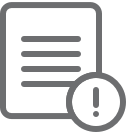
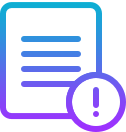
1. 공휴일, 일요일 구분 2. 데이터 없을때 아이콘 이미지 변경

diff --git a/Project01/Project01/ViewControllers/Calendar/CalendarDayCell.swift b/Project01/Project01/ViewControllers/Calendar/CalendarDayCell.swift
@@ -9,7 +9,8 @@
 import UIKit
 
 class CalendarDayCell: UICollectionViewCell {
-    
+	
+	@IBOutlet weak var vHolidayCircle: UIView!
 	@IBOutlet weak var lbDay: UILabel!
     @IBOutlet weak var vToDay: UIView!
 	@IBOutlet weak var vSelectedCell: UIView!
@@ -75,15 +76,25 @@ class CalendarDayCell: UICollectionViewCell {
 		
         // 공휴일 체크
         if isHoliday == true {
+			// 공휴일 동그라미
+			if CommonUtil.isEmpty(holidayName as AnyObject) == false {
+				vHolidayCircle.isHidden = false
+			}
+			else {
+				vHolidayCircle.isHidden = true
+			}
+			
 			// 현재달
 			if monthDirection == 0 {
 				// 오늘일 경우
 				if CalendarManager.getTodayIndex() == cellIndex {
+					vHolidayCircle.backgroundColor = UIColor(hex: 0xffffff)
 					lbDay.textColor = UIColor(hex: 0xffffff)
 					vToDay.backgroundColor = UIColor(hex: 0xff0000)
 					vToDay.isHidden = false
 				}
 				else {
+					vHolidayCircle.backgroundColor = UIColor(hex: 0xff0000)
 					lbDay.textColor = UIColor(hex: 0xff0000)
 					vToDay.isHidden = true
 				}
@@ -92,17 +103,22 @@ class CalendarDayCell: UICollectionViewCell {
 			else {
 				// 오늘일 경우
 				if CalendarManager.getTodayIndex() == cellIndex {
+					vHolidayCircle.backgroundColor = UIColor(hex: 0xffffff)
 					lbDay.textColor = UIColor(hex: 0xffffff)
 					vToDay.backgroundColor = UIColor(hex: 0xffaaaa)
 					vToDay.isHidden = false
 				}
 				else {
+					vHolidayCircle.backgroundColor = UIColor(hex: 0xffaaaa)
 					lbDay.textColor = UIColor(hex: 0xffaaaa)
 					vToDay.isHidden = true
 				}
 			}
         }
         else {
+			// 공휴일 동그라미
+			vHolidayCircle.isHidden = true
+			
 			// 현재달
 			if monthDirection == 0 {
 				// 오늘일 경우

diff --git a/Project01/Project01/ViewControllers/Calendar/MonthlyPlanViewController.swift b/Project01/Project01/ViewControllers/Calendar/MonthlyPlanViewController.swift
@@ -30,8 +30,8 @@ class MonthlyPlanViewController: UIViewController {
     var arrChildController = [CalendarMonthViewController]()
     
     // sama73: 시작일/종료일 샘플
-    var startYYYYMMDD = 20181101
-    var endYYYYMMDD = 20190301
+    var startYYYYMMDD = 20180701
+    var endYYYYMMDD = 20190701
     
     // 스크롤 Direction(-1: 좌측, 0: 정지, 1: 우측
     var scrollDirection: Int = 0
